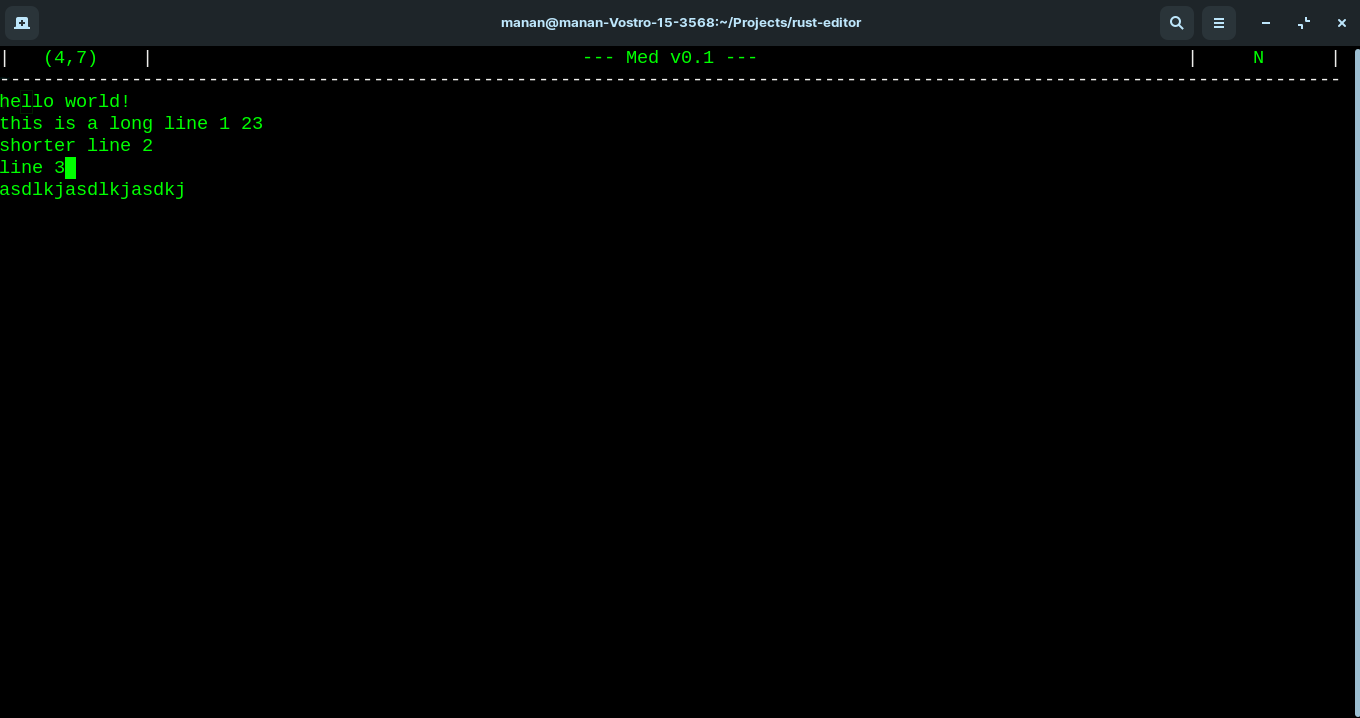
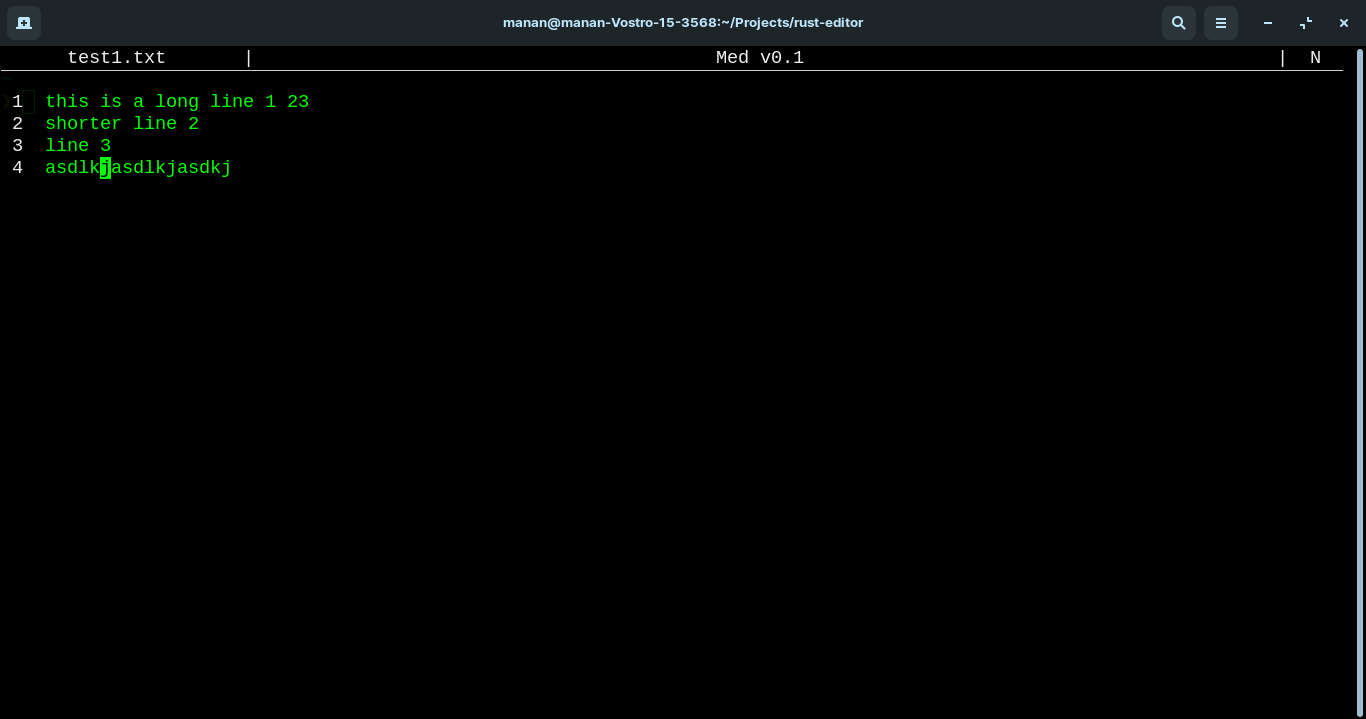
change interline DS, update editor UI

Changed region(s): [[0.0, 0.0, 1.0, 1.0]]

diff --git a/README.md b/README.md
@@ -21,7 +21,7 @@ Med is a simple terminal-based text editor written with the goal of understandin
 - [ ] Highlighting (?)
 - [ ] Error handling (!!)
 - [ ] Switch to better data structures (!!)
-    - [ ] Split buffer for inter line
+    - [x] Split buffer for inter line
     - [ ] Piece table for intra line
 - [ ] Commands (!)
 - [ ] Create configs
